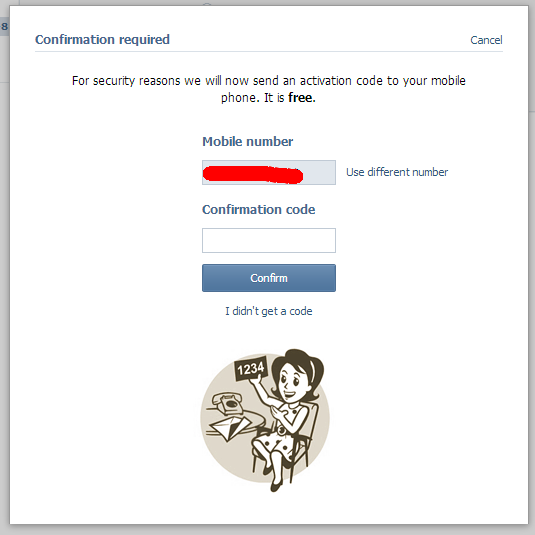
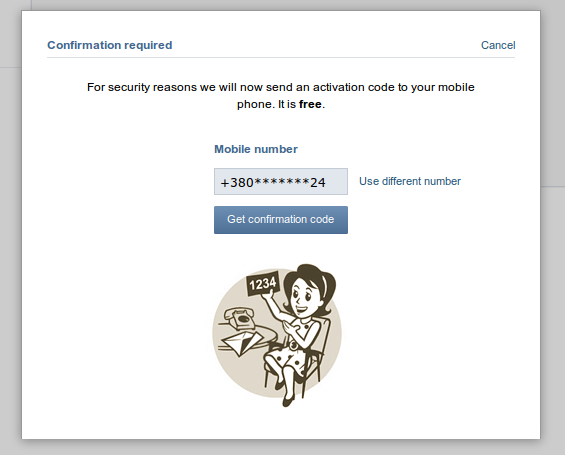
Updated wiki for adding new app.

Changed region(s): [[0.0, 0.0, 1.0, 0.9846]]

diff --git a/Adding-new-application.md b/Adding-new-application.md
@@ -3,17 +3,21 @@ To use **spring-social-vkontakte** you need create your application on http://vk
 ### Creating new application
 First go to http://vk.com/editapp?act=create
 
-There you need to select **Standalone Application**
+There you need to select **Website**
 
-![create app](https://raw.github.com/wiki/vkolodrevskiy/spring-social-vkontakte/images/createApp.png)
+![create app](https://raw.github.com/wiki/vkolodrevskiy/spring-social-vkontakte/images/createWebsiteApp.png)
 
 You will be asked for phone validation:
 
 ![create app](https://raw.github.com/wiki/vkolodrevskiy/spring-social-vkontakte/images/phoneVerif.png)
 
+You will be asked for confirmation code:
+
+![create app](https://raw.github.com/wiki/vkolodrevskiy/spring-social-vkontakte/images/phoneVerif2.png)
+
 Your app settings should look something like:
 
-![create app](https://raw.github.com/wiki/vkolodrevskiy/spring-social-vkontakte/images/testAppConf.png)
+![create app](https://raw.github.com/wiki/vkolodrevskiy/spring-social-vkontakte/images/testWebsiteAppConf.png)
 
 Here you need to copy **Application ID** and **Secure key**.
 
